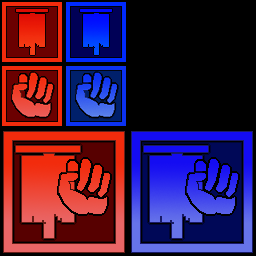
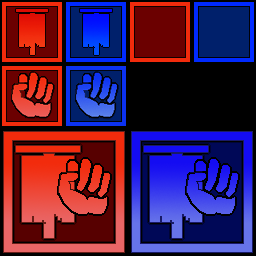
option to turn off flag score hud transparency
flagscorehudtransparency 0|1

    default: 1

DOCREF flagscorehudtransparency

Changed region(s): [[0.25, 0.0, 1.0, 0.25]]

diff --git a/source/src/renderhud.cpp b/source/src/renderhud.cpp
@@ -83,6 +83,7 @@ VARP(hideradar, 0, 0, 1);
 VARP(hidecompass, 0, 0, 1);
 VARP(hideteam, 0, 0, 1);
 VARP(hideteamscorehud, 0, 0, 1);
+VARP(flagscorehudtransparency, 0, 1, 1);
 VARP(hideeditinfopanel, 0, 0, 1);
 VARP(hidevote, 0, 0, 2);
 VARP(hidehudmsgs, 0, 0, 1);
@@ -1070,7 +1071,8 @@ void gl_drawhud(int w, int h, int curfps, int nquads, int curvert, bool underwat
 
             if(!offs || scores[2] || scores[3]) loopi(2) // flag state or frag-counter
             {
-                drawctficon(i*120+VIRTW/4.0f*3.0f, 1650, 120, i, offs / 2, 1/4.0f, flaginfos[i].state == CTFF_INBASE || offs ? 255 : 100);
+                bool inbase = flaginfos[i].state == CTFF_INBASE || offs;
+                drawctficon(i*120+VIRTW/4.0f*3.0f, 1650, 120, i + (inbase || flagscorehudtransparency ? 0 : 2), offs / 2, 1/4.0f, inbase || !flagscorehudtransparency ? 255 : 100);
                 if(m_teammode)
                 {
                     defformatstring(count)("\f%c%d", cc[i], scores[i + offs]);
